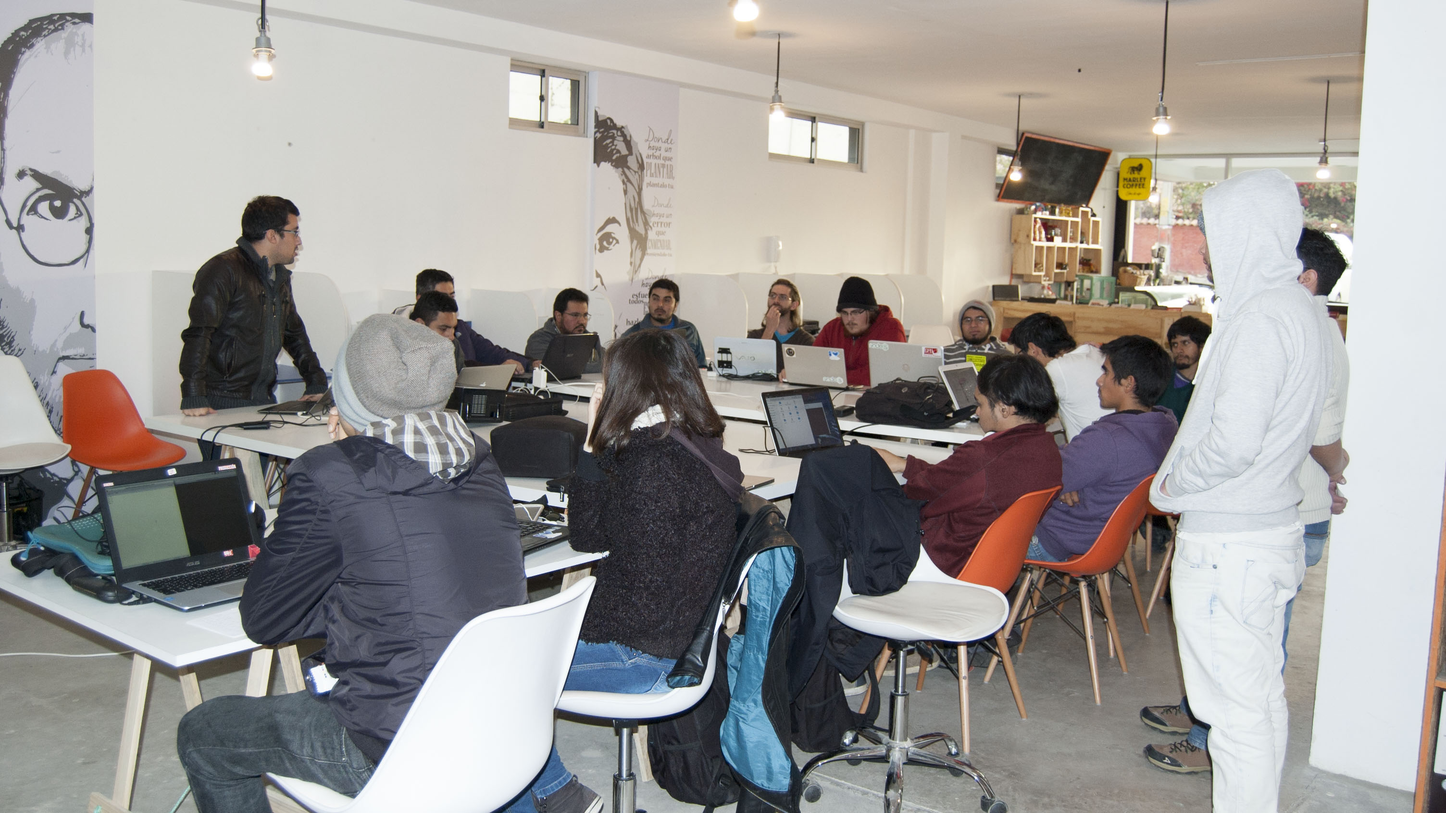
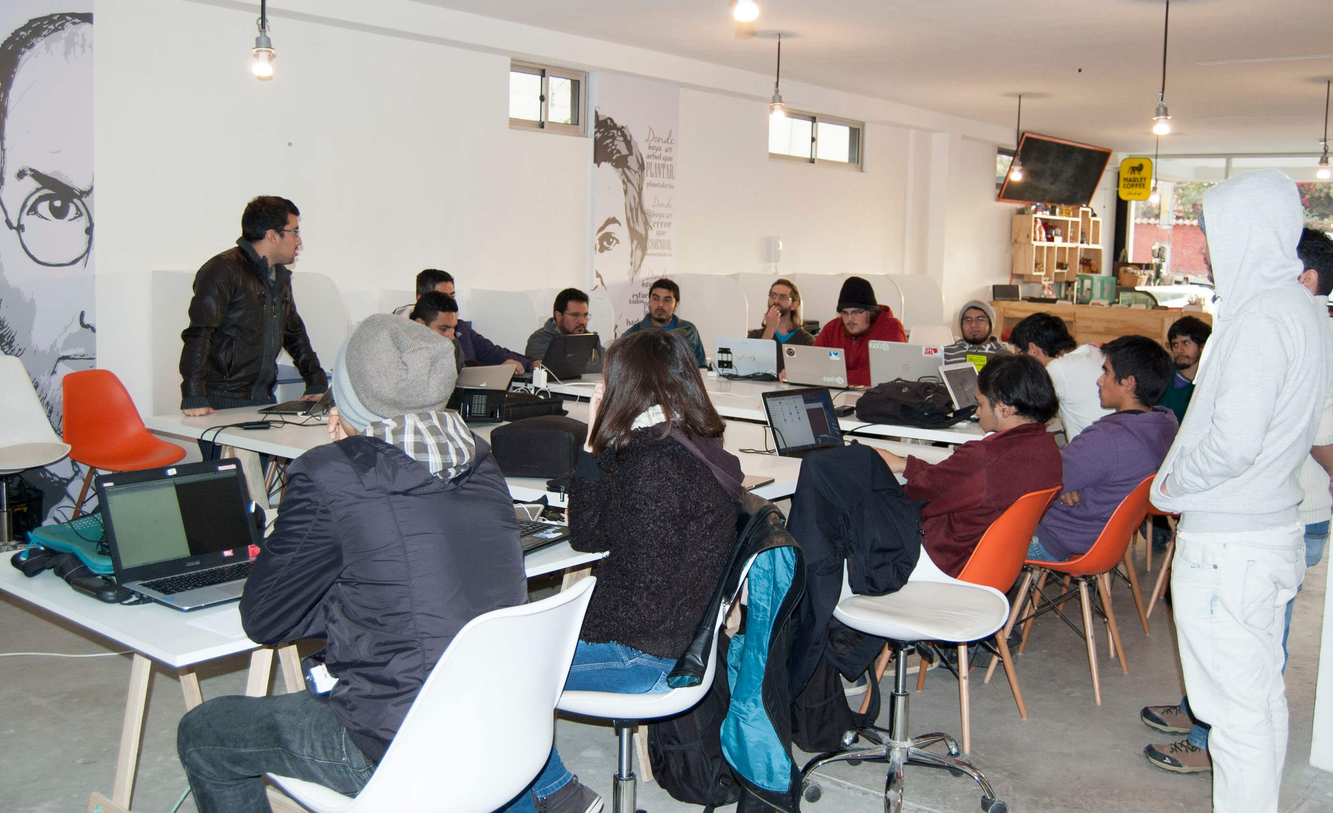
RESIZE images
modified:   assets/css/main.css
	deleted:    assets/img/bg-slide.jpg
	modified:   assets/img/bg_home_1.jpg
	new file:   assets/img/bg_home_2.jpg
	new file:   assets/img/bg_home_3.jpg
	modified:   index.html

diff --git a/index.html b/index.html
@@ -6,7 +6,7 @@ order: 1
     <!-- EVENTO -->
     <section class="contenidos prox-evento p-t-50 p-b-50">
         <div class="img_bg">
-            <img src="/assets/img/bg_home_1.jpg" alt="">
+            <img src="/assets/img/bg_home_3.jpg" alt="">
             <div class="gradiant"></div>
         </div>
         <div class="container">

diff --git a/assets/css/main.css b/assets/css/main.css
@@ -867,7 +867,7 @@ footer{
 	top: 0;
 
 	/*FILTRO*/
-	 filter: grayscale(100%)blur(3px);
+	 filter: grayscale(50%)blur(3px);
 	 /*filter: blur(3px);*/
 }
 
@@ -881,7 +881,7 @@ footer{
 	top: 0;
 
 	background: linear-gradient(to bottom,
-	    rgba(255,255,255,0.7), 
+	    rgba(255,255,255,0.5), 
 	    rgba(255,255,255,1)); 
 }
 
